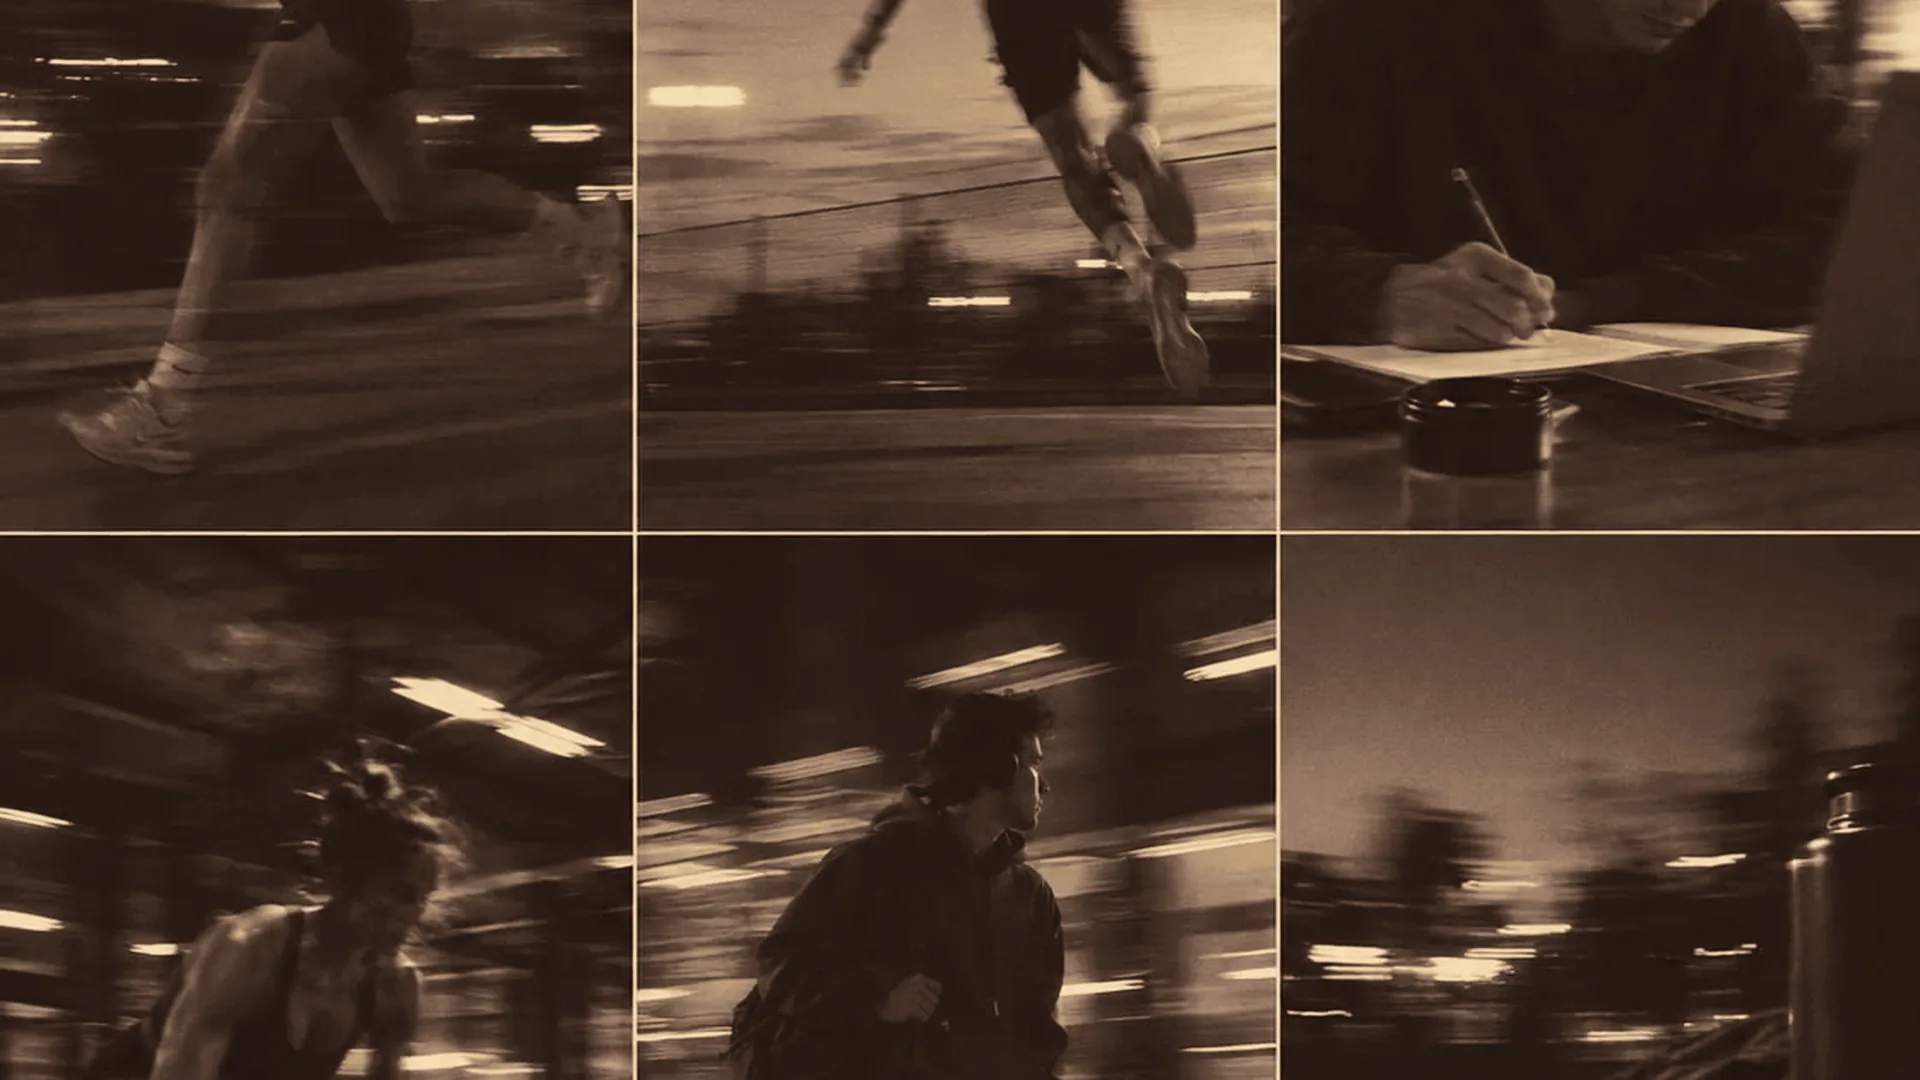
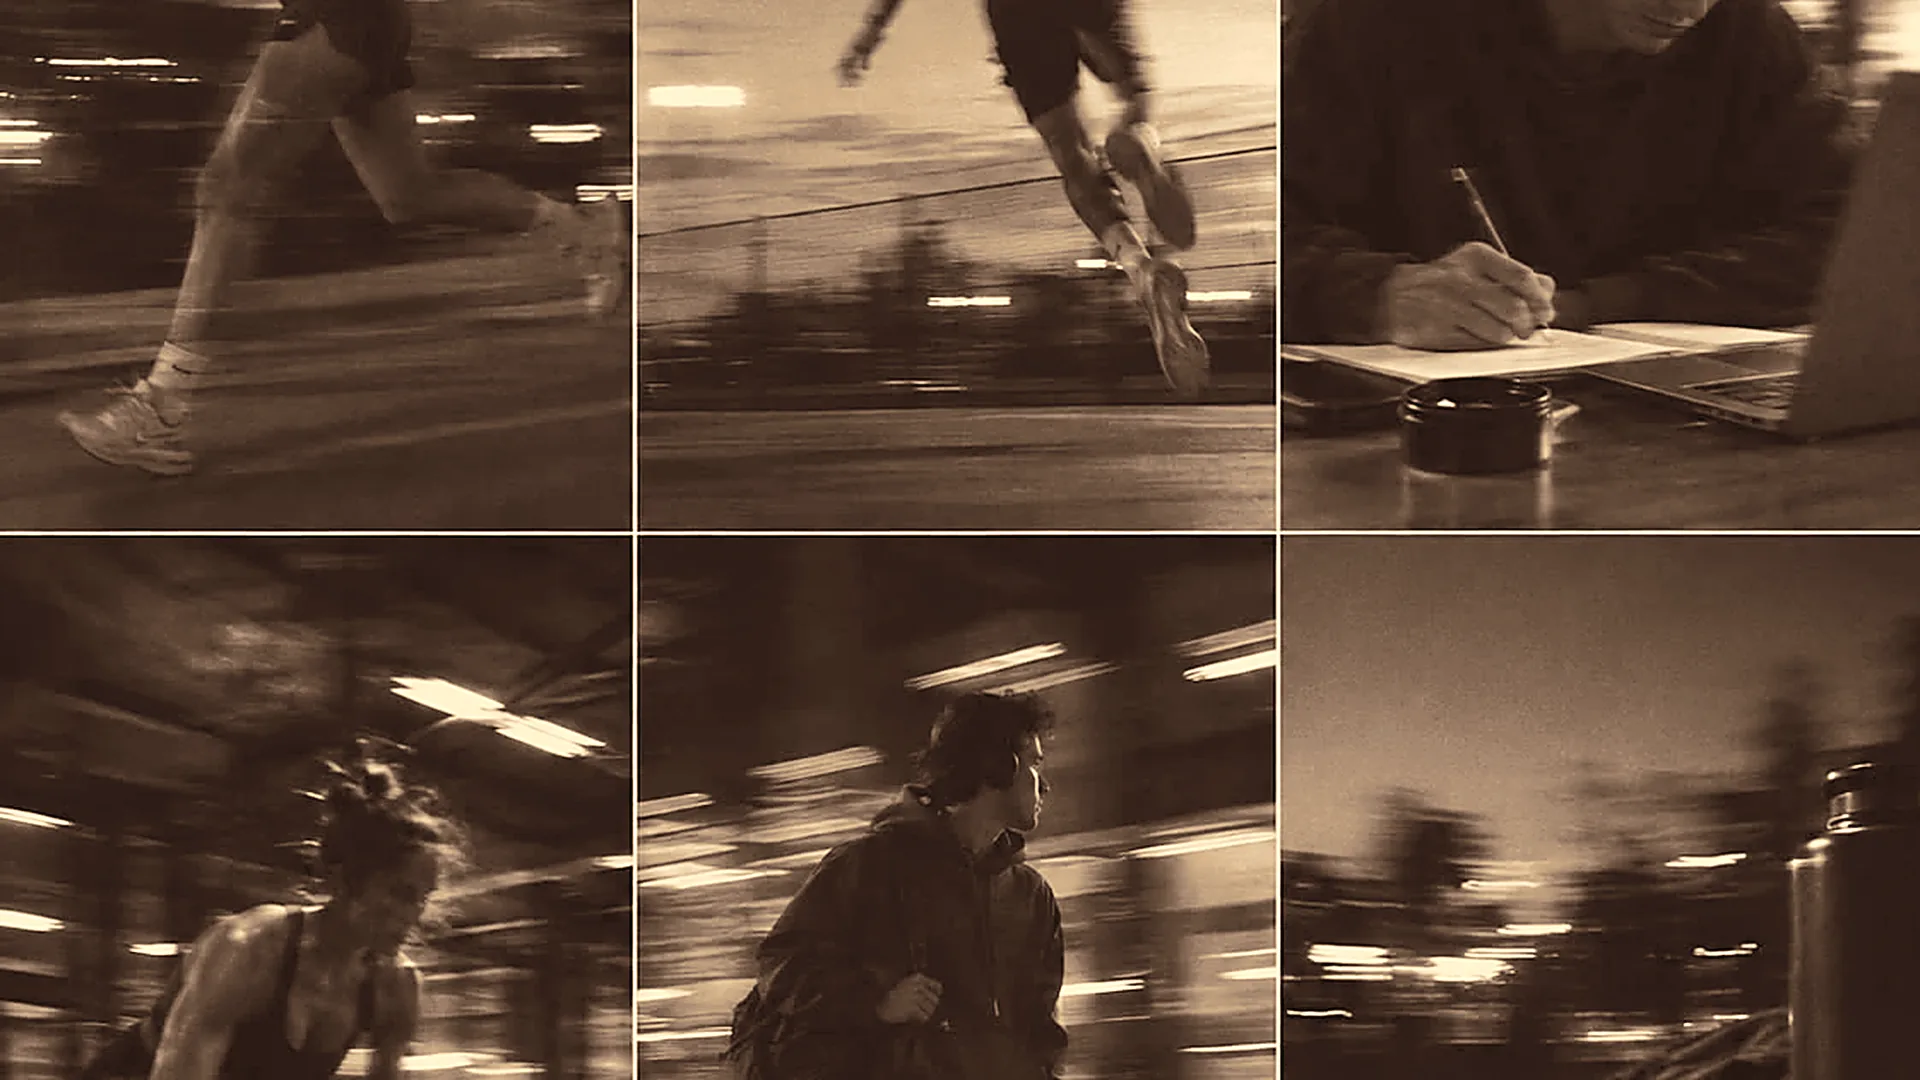
Fotos de uso más legibles y con recorte propio para móvil
- Grado revisado: el punto medio sube de 58 a 74 de luminancia, la curva
  de contraste pasa de 0,55 a 0,72 y se añade realce local. Antes el
  motivo se empastaba al reducir y teñir, y de lejos o en una pantalla
  pequeña no se distinguía qué se veía.
- Segundo juego de imágenes en 4:5 para pantallas estrechas. El módulo es
  alto y angosto en móvil, y con el recorte 16:9 el motivo se iba por los
  lados. El guion elige el recorte según el ancho y repinta al girar el
  teléfono.
- El velo baja de 0,70 a 0,62 arriba y de 0,34 a 0,22 en el centro: la
  foto se ve más sin perder la lectura del texto.
- Las cuatro siguen igualadas entre sí: 73,2 a 73,6 de luminancia media.

De paso restauro el módulo "Cuándo usarlos": al reescribir el pedido en
dos pasos, el corte de bloque se llevó por delante su código.

Claude-Session: https://claude.ai/code/session_01KjcFSbWYiSCCsxuhcY9QgS

diff --git a/assets/js/main.js b/assets/js/main.js
@@ -379,6 +379,145 @@
   setCiudad(order.ciudadId);
   $('#cantVal').textContent = order.cantidad;
 
+
+  /* ═══════════════════════════════════════════ 3. CUÁNDO USARLOS */
+  (function usos() {
+    var list = $('#fxTabs'), panels = $('#fxPanels'), thumb = $('#fxThumb');
+    var fondos = $('.efectos__fondos'), orden = 1;
+    /* En pantallas estrechas se usa el recorte vertical de cada caso: el
+       módulo es alto y angosto y con el recorte ancho el motivo se pierde. */
+    var esEstrecho = window.matchMedia('(max-width: 700px)');
+    function fotoDe(d) { return (esEstrecho.matches && d.fotoMovil) ? d.fotoMovil : d.foto; }
+    if (!list || !panels) return;
+    var datos = cfg.usos || [];
+
+    panels.innerHTML = datos.map(function (d, i) {
+      return '<div class="uso" id="panel-' + d.id + '" role="tabpanel" ' +
+        'aria-labelledby="tab-' + d.id + '" tabindex="0"' + (i ? ' hidden' : '') + '>' +
+        '<p class="uso__titulo">' + d.titulo + '</p>' +
+        '<p class="uso__copy">' + d.copy + '</p></div>';
+    }).join('');
+
+    list.insertAdjacentHTML('beforeend', datos.map(function (d, i) {
+      return '<button class="tab" type="button" role="tab" id="tab-' + d.id + '" ' +
+        'aria-controls="panel-' + d.id + '" aria-selected="' + (i === 0) + '"' +
+        (i ? ' tabindex="-1"' : '') + '>' + d.label + '</button>';
+    }).join(''));
+
+    var btns = $$('.tab', list);
+
+    function moveThumb(btn, animate) {
+      /* Se sigue también la fila: por debajo de 560 px las pestañas van en
+         dos por dos, y con solo la x el indicador caía siempre arriba. */
+      var x = btn.offsetLeft - list.clientLeft;
+      var y = btn.offsetTop - list.clientTop;
+      var w = btn.offsetWidth, h = btn.offsetHeight;
+      if (hasGsap && animate && !reduced) {
+        gsap.to(thumb, { x: x, y: y, width: w, height: h, duration: .55, ease: 'power3.out' });
+      } else {
+        thumb.style.width = w + 'px';
+        thumb.style.height = h + 'px';
+        thumb.style.transform = 'translate3d(' + x + 'px,' + y + 'px,0)';
+      }
+    }
+
+    function select(i, animate) {
+      var d = datos[i];
+      btns.forEach(function (b, n) {
+        b.setAttribute('aria-selected', n === i ? 'true' : 'false');
+        b.tabIndex = n === i ? 0 : -1;
+      });
+      $$('.uso', panels).forEach(function (p, n) {
+        if (n === i) {
+          p.hidden = false;
+          if (hasGsap && animate && !reduced) {
+            gsap.fromTo(p.children, { autoAlpha: 0, y: 14 }, { autoAlpha: 1, y: 0, duration: .5, stagger: .06, ease: 'power2.out' });
+          }
+        } else { p.hidden = true; }
+      });
+      moveThumb(btns[i], animate);
+
+      /* El fondo: cada cambio crea su propia capa, que entra por encima de
+         las que ya están puestas y se queda opaca hasta que otra la tapa.
+         Con capas fijas, si cambiabas de pestaña antes de terminar el cruce
+         el temporizador del cambio anterior apagaba la capa que acababa de
+         quedar activa y se veía el cobalto de la sección: ese era el bug.
+         Creándolas, nunca se apaga nada que esté a la vista. */
+      if (fondos && d.foto) {
+        var cual = fotoDe(d);
+        var url = 'url("' + cual + '")';
+        var ultima = fondos.lastElementChild;
+        if (!ultima || ultima.dataset.foto !== cual) {
+          var hecho = false;
+          var pinta = function () {
+            if (hecho) return;
+            hecho = true;
+            var capa = document.createElement('div');
+            capa.className = 'efectos__fondo';
+            capa.dataset.foto = cual;
+            capa.style.backgroundImage = url;
+            capa.style.zIndex = ++orden;
+            if (!animate || reduced) capa.classList.add('sin-fundido');
+            fondos.appendChild(capa);
+            void capa.offsetWidth;
+            capa.classList.add('is-on');
+            setTimeout(function () {
+              /* se retiran las que hayan quedado debajo de esta, nunca las
+                 de encima: si hubo otro cambio entremedias, manda el nuevo */
+              while (fondos.firstElementChild &&
+                     fondos.firstElementChild !== capa &&
+                     fondos.children.length > 1) {
+                fondos.removeChild(fondos.firstElementChild);
+              }
+              capa.classList.remove('sin-fundido');
+            }, 700);
+          };
+          if (!animate || reduced) { pinta(); }
+          else {
+            var img = new Image();
+            img.onload = img.onerror = pinta;
+            img.src = cual;
+            if (img.complete) pinta();
+          }
+        }
+      }
+    }
+
+    btns.forEach(function (b, i) {
+      b.addEventListener('click', function () { select(i, true); });
+      b.addEventListener('keydown', function (e) {
+        var dir = e.key === 'ArrowRight' ? 1 : e.key === 'ArrowLeft' ? -1 : 0;
+        if (!dir) return;
+        e.preventDefault();
+        var n = (i + dir + btns.length) % btns.length;
+        btns[n].focus(); select(n, true);
+      });
+    });
+
+    select(0, false);
+
+    /* Se precargan las otras tres al terminar de cargar la página: así el
+       primer cambio de pestaña ya cruza sin esperar a la descarga. */
+    window.addEventListener('load', function () {
+      datos.forEach(function (d) { var f = fotoDe(d); if (f) { var i = new Image(); i.src = f; } });
+    });
+
+    /* Al girar el teléfono se repinta con el recorte que toque, sin fundido */
+    esEstrecho.addEventListener('change', function () {
+      var i = btns.map(function (b) { return b.getAttribute('aria-selected'); }).indexOf('true');
+      if (fondos.lastElementChild) fondos.lastElementChild.dataset.foto = '';
+      select(i < 0 ? 0 : i, false);
+    });
+
+    function recolocar() {
+      var on = btns.filter(function (b) { return b.getAttribute('aria-selected') === 'true'; })[0] || btns[0];
+      moveThumb(on, false);
+    }
+    if (document.fonts && document.fonts.ready) document.fonts.ready.then(recolocar);
+    window.addEventListener('resize', recolocar);
+  })();
+
+
   /* ═══════════════════════════════════════ 4. CAJÓN LATERAL DE PEDIDO */
   (function checkout() {
     var caja = $('#checkout');

diff --git a/assets/js/config.js b/assets/js/config.js
@@ -94,6 +94,7 @@ window.TPP = {
     {
       id: 'entrenamiento', label: 'Entrenamiento',
       foto: 'assets/img/uso-entrenamiento.webp',
+      fotoMovil: 'assets/img/uso-entrenamiento-movil.webp',
       titulo: 'Puesto antes de la primera serie',
       copy: 'Te lo pones al calentar y ya estás dentro cuando tocas la barra. Nada que cargar, ' +
             'nada de azúcar que te baje a media sesión y las manos libres. Aguanta toda la ' +
@@ -102,6 +103,7 @@ window.TPP = {
     {
       id: 'trabajo', label: 'Trabajo',
       foto: 'assets/img/uso-trabajo.webp',
+      fotoMovil: 'assets/img/uso-trabajo-movil.webp',
       titulo: 'Para el bloque largo, no el sprint',
       copy: 'La L-Teanina sostiene la atención sin ponerte acelerado y la L-Tirosina repone lo ' +
             'que el cerebro gasta bajo presión. Al no llevar azúcar no hay pico, y sin pico no ' +
@@ -110,6 +112,7 @@ window.TPP = {
     {
       id: 'estudio', label: 'Estudio',
       foto: 'assets/img/uso-estudio.webp',
+      fotoMovil: 'assets/img/uso-estudio-movil.webp',
       titulo: 'Sesiones seguidas, sin otro café',
       copy: 'Cada pouch trae siempre la misma cantidad, así que dejas de calcular la dosis a ojo. ' +
             'Y como no lleva cafeína tampoco te cobra la noche: el examen de mañana no se paga ' +
@@ -118,6 +121,7 @@ window.TPP = {
     {
       id: 'donde-sea', label: 'Donde sea',
       foto: 'assets/img/uso-donde-sea.webp',
+      fotoMovil: 'assets/img/uso-donde-sea-movil.webp',
       titulo: 'Va donde vayas, sin cargar nada',
       copy: 'No se derrama, no pide agua y no necesita frío. Carretera, turno largo, viaje o ' +
             'mudanza: ocupa lo que una lata pequeña y no deja atrás humo, olor ni un vaso que ' +

diff --git a/assets/css/styles.css b/assets/css/styles.css
@@ -415,8 +415,8 @@ main section[id]{scroll-margin-top:calc(var(--nav-h) + 16px)}
 .efectos__velo{
   position:absolute; inset:0; z-index:1;
   background:
-    linear-gradient(to bottom, rgba(6,3,20,.7) 0%, rgba(6,3,20,.34) 34%, rgba(6,3,20,.34) 62%, rgba(6,3,20,.74) 100%),
-    radial-gradient(closest-side at 50% 52%, rgba(6,3,20,.62), transparent 78%);
+    linear-gradient(to bottom, rgba(6,3,20,.62) 0%, rgba(6,3,20,.22) 32%, rgba(6,3,20,.22) 64%, rgba(6,3,20,.66) 100%),
+    radial-gradient(closest-side at 50% 52%, rgba(6,3,20,.54), transparent 80%);
 }
 .efectos__inner{position:relative; z-index:2; display:grid; justify-items:center; text-align:center; gap:clamp(14px,2.2vw,24px)}
 .efectos__inner .h2{max-width:16ch}

diff --git a/herramientas/grado.py b/herramientas/grado.py
@@ -4,8 +4,8 @@ import random
 # Anclas tomadas del propio póster del vídeo del banner:
 # sombras #180B08, medios #664933, luces #8F705B. Se extiende el tramo alto
 # hacia la arena para que las fotos no queden planas.
-ANCLAS = [(0.00,(18,10,8)), (0.16,(46,28,20)), (0.40,(90,64,48)),
-          (0.62,(143,112,91)), (0.82,(186,150,108)), (1.00,(232,207,162))]
+ANCLAS = [(0.00,(22,13,10)), (0.14,(54,34,25)), (0.38,(104,76,57)),
+          (0.60,(158,126,101)), (0.80,(202,166,122)), (1.00,(244,224,186))]
 
 def lut():
     tabla=[[],[],[]]
@@ -23,14 +23,15 @@ def lut():
 LUT = lut()
 
 def curva(v):
-    """Negros levantados y una S suave: el aire lavado del clip."""
+    """Negros levantados y una S algo más marcada que antes: el aire lavado
+       del clip se mantiene, pero el motivo se separa del fondo."""
     t=v/255
-    t=0.055+t*0.945                      # levanta el negro
-    t=t*t*(3-2*t)*0.55 + t*0.45          # contraste blando
+    t=0.045+t*0.955                      # levanta el negro, menos que antes
+    t=t*t*(3-2*t)*0.72 + t*0.28          # contraste más firme
     return max(0,min(255,int(t*255)))
 CURVA=[curva(i) for i in range(256)]
-DIANA=74      # luminancia media antes de teñir
-DIANA_FIN=58  # y la del resultado final, ya con el tinte y el grano
+DIANA=86      # luminancia media antes de teñir
+DIANA_FIN=74  # y la del resultado final, ya con el tinte y el grano
 
 def recorta(im, foco=0.5, rel=16/9):
     w,h=im.size
@@ -41,10 +42,10 @@ def recorta(im, foco=0.5, rel=16/9):
         y=max(0,min(h-nh,y))
     return im.crop((x,y,x+nw,y+nh))
 
-def grada(src, dst, foco=0.5, color=0.12, grano=7, ancho=1920):
+def grada(src, dst, foco=0.5, color=0.14, grano=7, ancho=1920, rel=16/9):
     im=Image.open(src).convert('RGB')
-    im=recorta(im, foco)
-    im=im.resize((ancho,int(ancho*9/16)), Image.LANCZOS)
+    im=recorta(im, foco, rel)
+    im=im.resize((ancho,int(ancho/rel)), Image.LANCZOS)
     gris=im.convert('L')
     # Igualar exposición: todas acaban con la misma luminancia media, que es
     # lo que hace que la serie se lea como una sola sesión de fotos.
@@ -58,7 +59,10 @@ def grada(src, dst, foco=0.5, color=0.12, grano=7, ancho=1920):
     tenido=Image.merge('RGB',(gris,gris,gris)).point(LUT)
     # una pizca del color original, para que no parezca un filtro plano
     salida=Image.blend(tenido, im, color)
-    salida=ImageEnhance.Contrast(salida).enhance(1.04)
+    salida=ImageEnhance.Contrast(salida).enhance(1.06)
+    # Realce local: devuelve el filo que se pierde al reducir y al teñir,
+    # que es lo que hace que la foto se lea de lejos y en una pantalla chica.
+    salida=salida.filter(ImageFilter.UnsharpMask(radius=2.2, percent=68, threshold=3))
     # grano
     random.seed(11)
     ruido=Image.effect_noise(salida.size,grano).convert('L')
@@ -76,9 +80,13 @@ def grada(src, dst, foco=0.5, color=0.12, grano=7, ancho=1920):
 BASE='/tmp/claude-0/-home-user-THEPOUCHPROYECT/efaf1adb-b50e-5c64-9320-e3084cc1a078/images/'
 OUT='/home/user/THEPOUCHPROYECT/assets/img/'
 import os
-for src, dst, foco in [('31.webp','uso-entrenamiento.webp',0.46),
-                       ('32.webp','uso-trabajo.webp',0.46),
-                       ('33.webp','uso-estudio.webp',0.44),
-                       ('34.webp','uso-donde-sea.webp',0.50)]:
-    s=grada(BASE+src, OUT+dst, foco)
-    print(dst, s, os.path.getsize(OUT+dst)//1024, 'KB')
+# En el móvil el módulo es alto y estrecho: con el recorte 16:9 el motivo
+# se va por los lados. Se genera un segundo juego en 4:5, más cerrado.
+for src, dst, foco, focoM in [('31.webp','uso-entrenamiento',0.46,0.44),
+                              ('32.webp','uso-trabajo',      0.46,0.46),
+                              ('33.webp','uso-estudio',      0.44,0.42),
+                              ('34.webp','uso-donde-sea',    0.50,0.50)]:
+    a=grada(BASE+src, OUT+dst+'.webp', foco, ancho=1920, rel=16/9)
+    b=grada(BASE+src, OUT+dst+'-movil.webp', focoM, ancho=1080, rel=4/5)
+    print(dst.ljust(20), a, os.path.getsize(OUT+dst+'.webp')//1024, 'KB  |  movil',
+          b, os.path.getsize(OUT+dst+'-movil.webp')//1024, 'KB')
